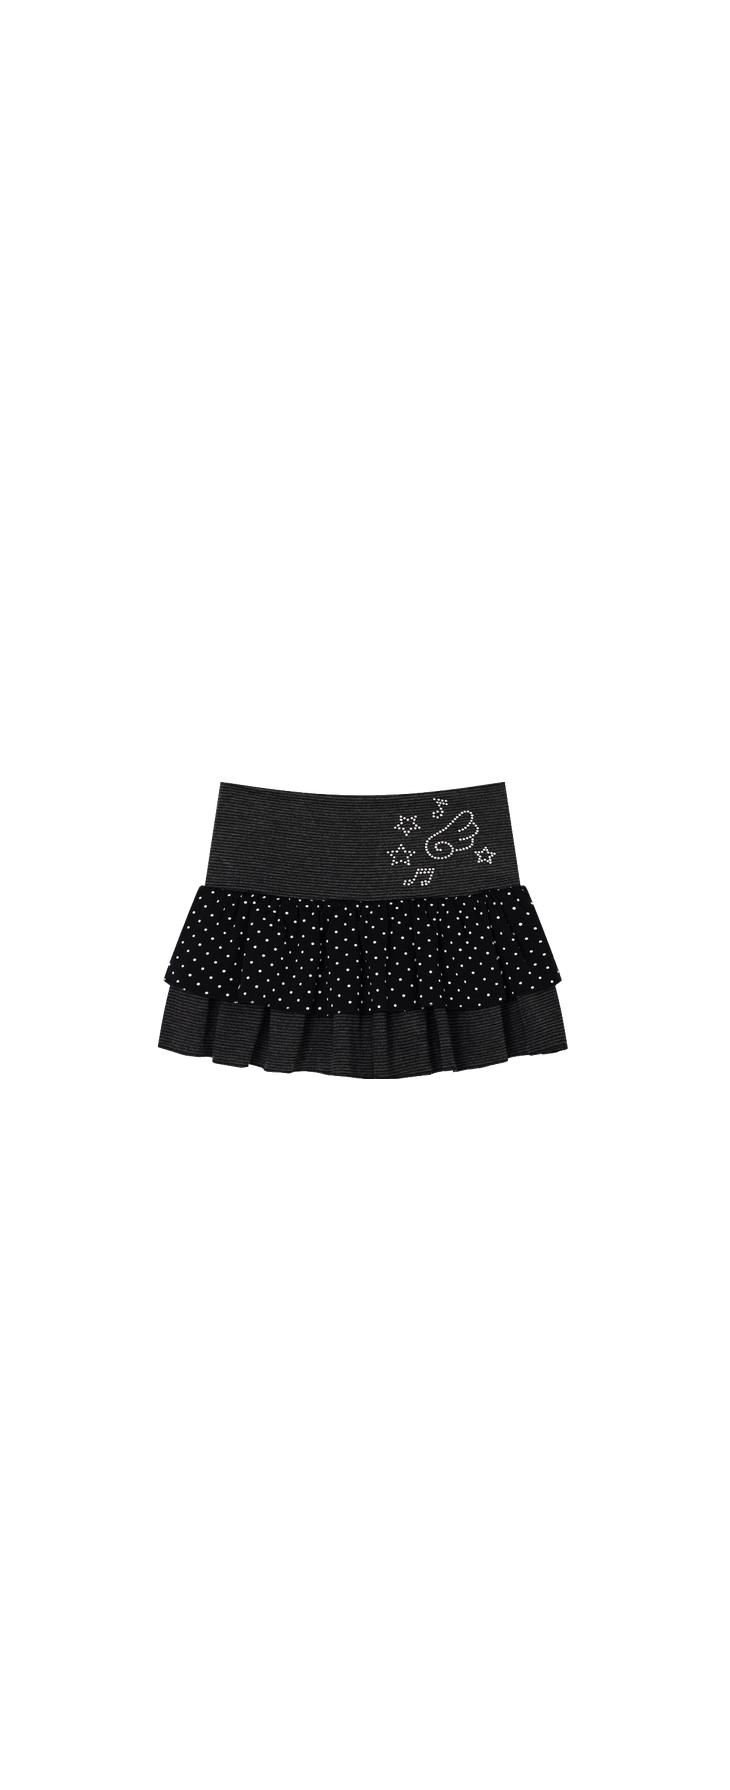
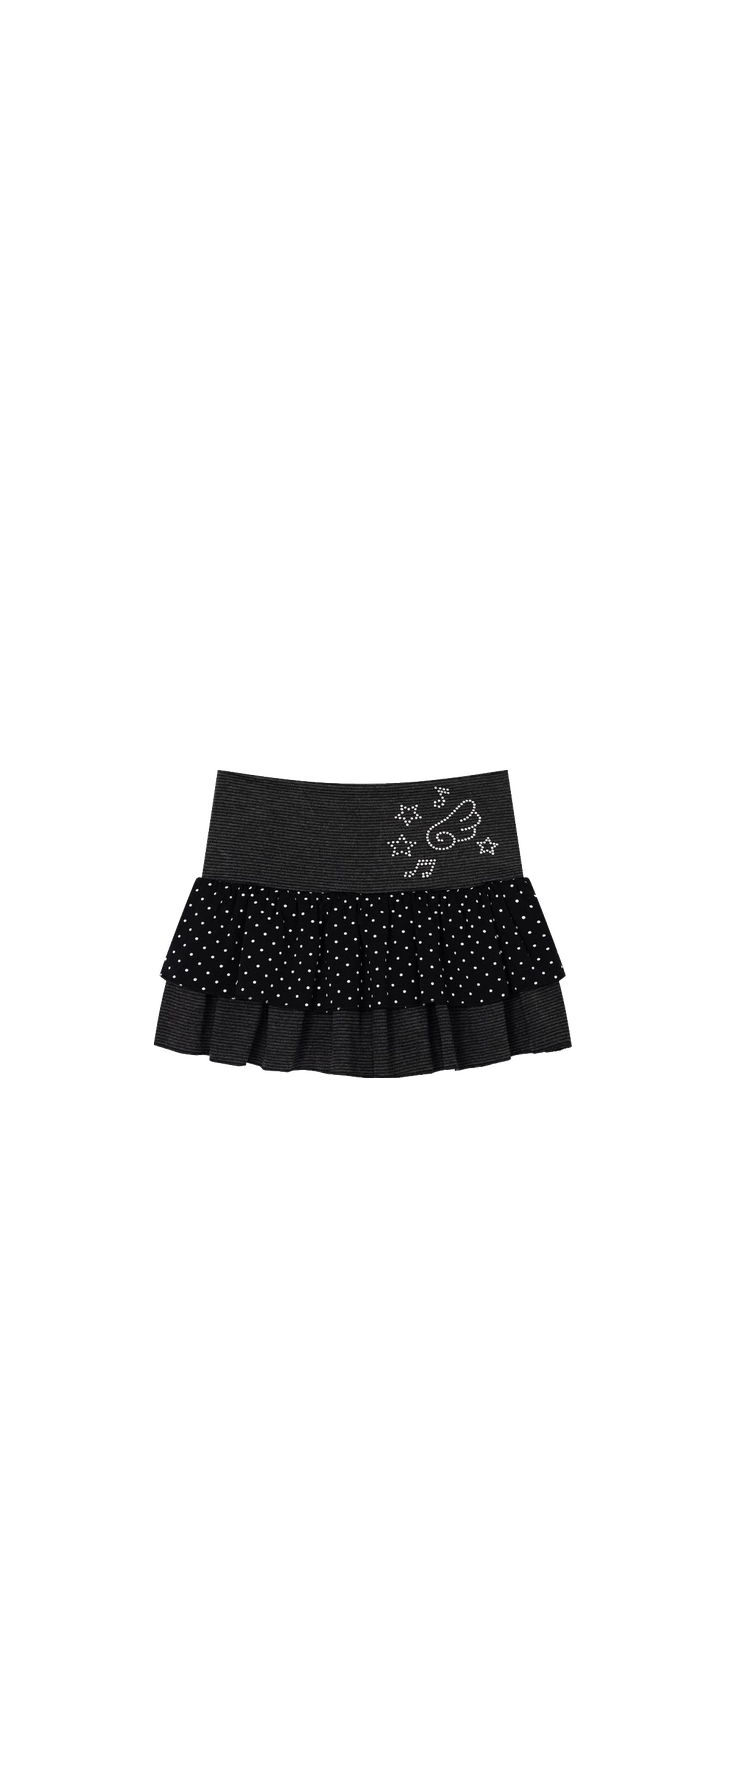
Dress up: dos remeras de demostración (pentagrama y gatitos) ajustadas a la modelo y prendas de abajo reajustadas (cintura, largo y ancho)
Claude-Session: https://claude.ai/code/session_01NkzZ8c9JRdpHTP3V5vwTYF

Changed region(s): [[0.211, 0.4302, 0.7836, 0.6145]]

diff --git a/data/dressup.js b/data/dressup.js
@@ -21,10 +21,9 @@ const ROPA = (() => {
   const FUCSIA = "#d63fa6", LILA = "#d9a8ea", UVA = "#7b2a8e", BLANCO = "#ffffff";
 
   return {
-    arriba: [
-      { nombre: "remera corazón", src: svg(simetrico(forma(
-        "M365 425 Q320 425 305 362 L215 370 L145 410 L130 545 L195 565 L205 480 L212 810 L365 810 Z", FUCSIA,
-        `<path d="M290 600 q-30 -30 0 -50 q22 -10 30 12 q8 -22 30 -12 q30 20 0 50 l-30 30z" fill="${BLANCO}" stroke="#411d4b" stroke-width="4"/>`))) },
+    arriba: [   // remeras de demostración (PNG de 730x1790 con la prenda ya ajustada a la modelo)
+      { nombre: "remera pentagrama", src: "assets/dressup/arriba-pentagrama.png" },
+      { nombre: "remera gatitos", src: "assets/dressup/arriba-gatitos.png" },
       { nombre: "top violeta", src: svg(simetrico(forma(
         "M365 440 Q335 440 322 385 L322 362 L285 366 L268 450 L225 490 L212 700 L365 700 Z", UVA,
         `<circle cx="300" cy="620" r="12" fill="${BLANCO}"/><circle cx="260" cy="560" r="9" fill="${BLANCO}"/><circle cx="320" cy="520" r="8" fill="${BLANCO}"/>`))) },
